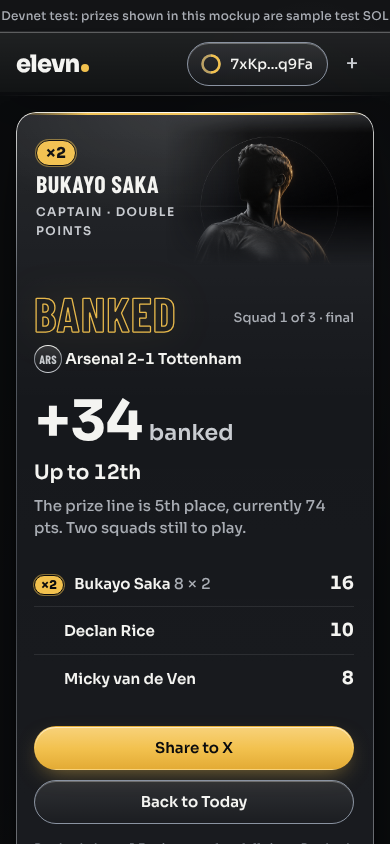
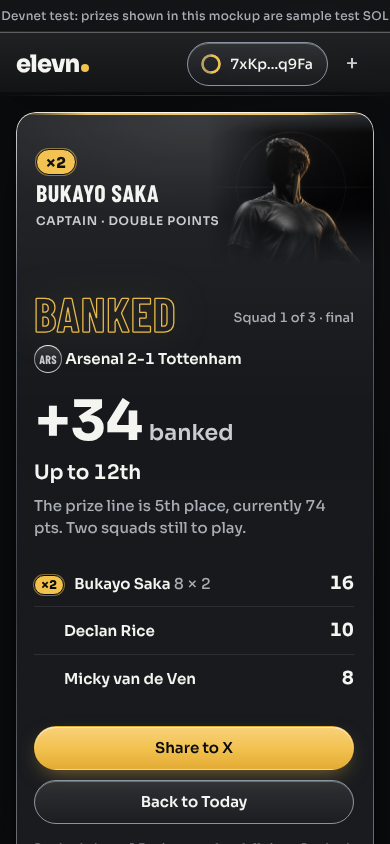
Banked poster: head agent's fixes (phone label on one line, air beside the ball)
Claude-Session: https://claude.ai/code/session_012GbKyktRC7AZHXPGqzBhVv

Changed region(s): [[0.0923, 0.154, 0.8615, 0.3081], [0.8615, 0.2773, 0.8923, 0.3081]]

diff --git a/docs/design/mockups/banked-page.css b/docs/design/mockups/banked-page.css
@@ -10,7 +10,7 @@
 .bkc .bkc-art { position: absolute; inset: 0;
   -webkit-mask: linear-gradient(90deg, transparent 0, #000 38%), linear-gradient(180deg, transparent 0, #000 10%, #000 86%, transparent 100%); -webkit-mask-composite: source-in;
   mask: linear-gradient(90deg, transparent 0, #000 38%) intersect, linear-gradient(180deg, transparent 0, #000 10%, #000 86%, transparent 100%); }
-.bkc .bkc-art img { display: block; width: 100%; height: 100%; object-fit: cover; object-position: 78% 0; }
+.bkc .bkc-art img { display: block; width: 100%; height: 100%; object-fit: cover; object-position: 100% 0; }
 /* the card's own fill is opaque so the dimmed page behind never reads through it; rim and bevel stay */
 .bkc.bk-dlg { background: linear-gradient(180deg, rgba(255,255,255,.10) 0%, rgba(255,255,255,.04) 36%, rgba(255,255,255,.055) 100%), #0d0f13; }
 .bkc .bkc-lab { position: absolute; left: 36px; right: 16px; bottom: 22px; display: flex; flex-direction: column; align-items: flex-start; gap: 6px; z-index: 2; }
@@ -39,6 +39,8 @@
   .bkc .bkc-lab { left: 20px; right: auto; top: 0; bottom: 0; justify-content: center; max-width: 52%; }
   .bkc .bkc-row { flex-direction: column; align-items: flex-start; gap: 6px; }
   .bkc .bkc-name { font-size: 24px; }
-  .bkc .bkc-role { letter-spacing: .12em; }
+  .bkc .bkc-role { letter-spacing: .06em; white-space: nowrap; }
+  .bkc .bkc-lab { max-width: none; }
+  .bkc .bkc-art { left: 54%; }
   .bkc .bk-in { padding-right: 20px !important; }
 }

diff --git a/docs/design/LESSONS.md b/docs/design/LESSONS.md
@@ -396,3 +396,11 @@ Reporting
 - How: the figure column is 330px, image `object-fit: cover` anchored to the top and masked to transparent on its left, top and bottom edges so it melts into the card fill (the art is near-black). The captain label sits at the bottom over the dark legs area, never on the lit shirt. Phone: a 150px banner with the label on the left and the head and shoulders on the right; both buttons still sit above 844px.
 - Changed: a first script replaced the wrong `</aside>` (the page behind has one too); search for the closing tag from the opening tag's index.
 - Rule for next time: when swapping art into a card, fade the image into the card fill with a mask rather than boxing it, and put text only on the dark part of the picture; measure contrast on a screenshot taken with the text made transparent.
+
+## 2026-11-19 · head agent · review of the minimal Banked poster
+- Did: rendered banked.html at 1920x1080, 1440x900, 1440x789, 1366x768, 1024x768 and 390x844 with Playwright, looked at every screenshot, and measured contrast with the text made transparent, the image's edges with the image hidden, and see-through with the page behind hidden.
+- Verdict: approve with one required phone change. Desktop passes as built: calm, +34 is the loudest thing, card 643px (bottom at 759, inside a 768 window), head whole, no rectangle edge (image fades to 1/255 at its left, top and bottom), nothing under text, contrast 6.1:1 or better on every line, one gold button, no animation or transition, no overflow, no console errors, nothing reads through the card (difference 0 to 1).
+- Required (phone, at 700px and narrower): "CAPTAIN · DOUBLE POINTS" wraps to two lines and its end sits on the statue's shoulder at 3.5:1. Fix, tested at 390 and 360 (one line, 7.1:1 or better, head whole): `.bkc .bkc-role { letter-spacing: .06em; white-space: nowrap; }`, `.bkc .bkc-lab { max-width: none; }`, `.bkc .bkc-art { left: 54%; }`.
+- Recommended (desktop): the arm ends 8px from the card's right rim, which is whole but tight; `.bkc .bkc-art img { object-position: 100% 0; }` gives it 28px of air and costs only more fade on the far shoulder.
+- Weak, not blocking: at 400px and narrower an older rule in mock.css (`.bk-in > p.small:first-of-type .muted { display: none }`) drops "· Premier League"; on the phone the footnote is below the first screen (buttons end at 824 of 844); the two actions are links, so in the build "Share to X" must be a real button; the page has no h1 (the dialog title is an h2, which is fine for a dialog).
+- Rule for next time: a label laid beside a masked picture is measured at the narrowest phone width too, because the picture's fade moves with the column; and a letter-spaced caption gets `white-space: nowrap` plus a checked width, never a max-width that makes it wrap.
